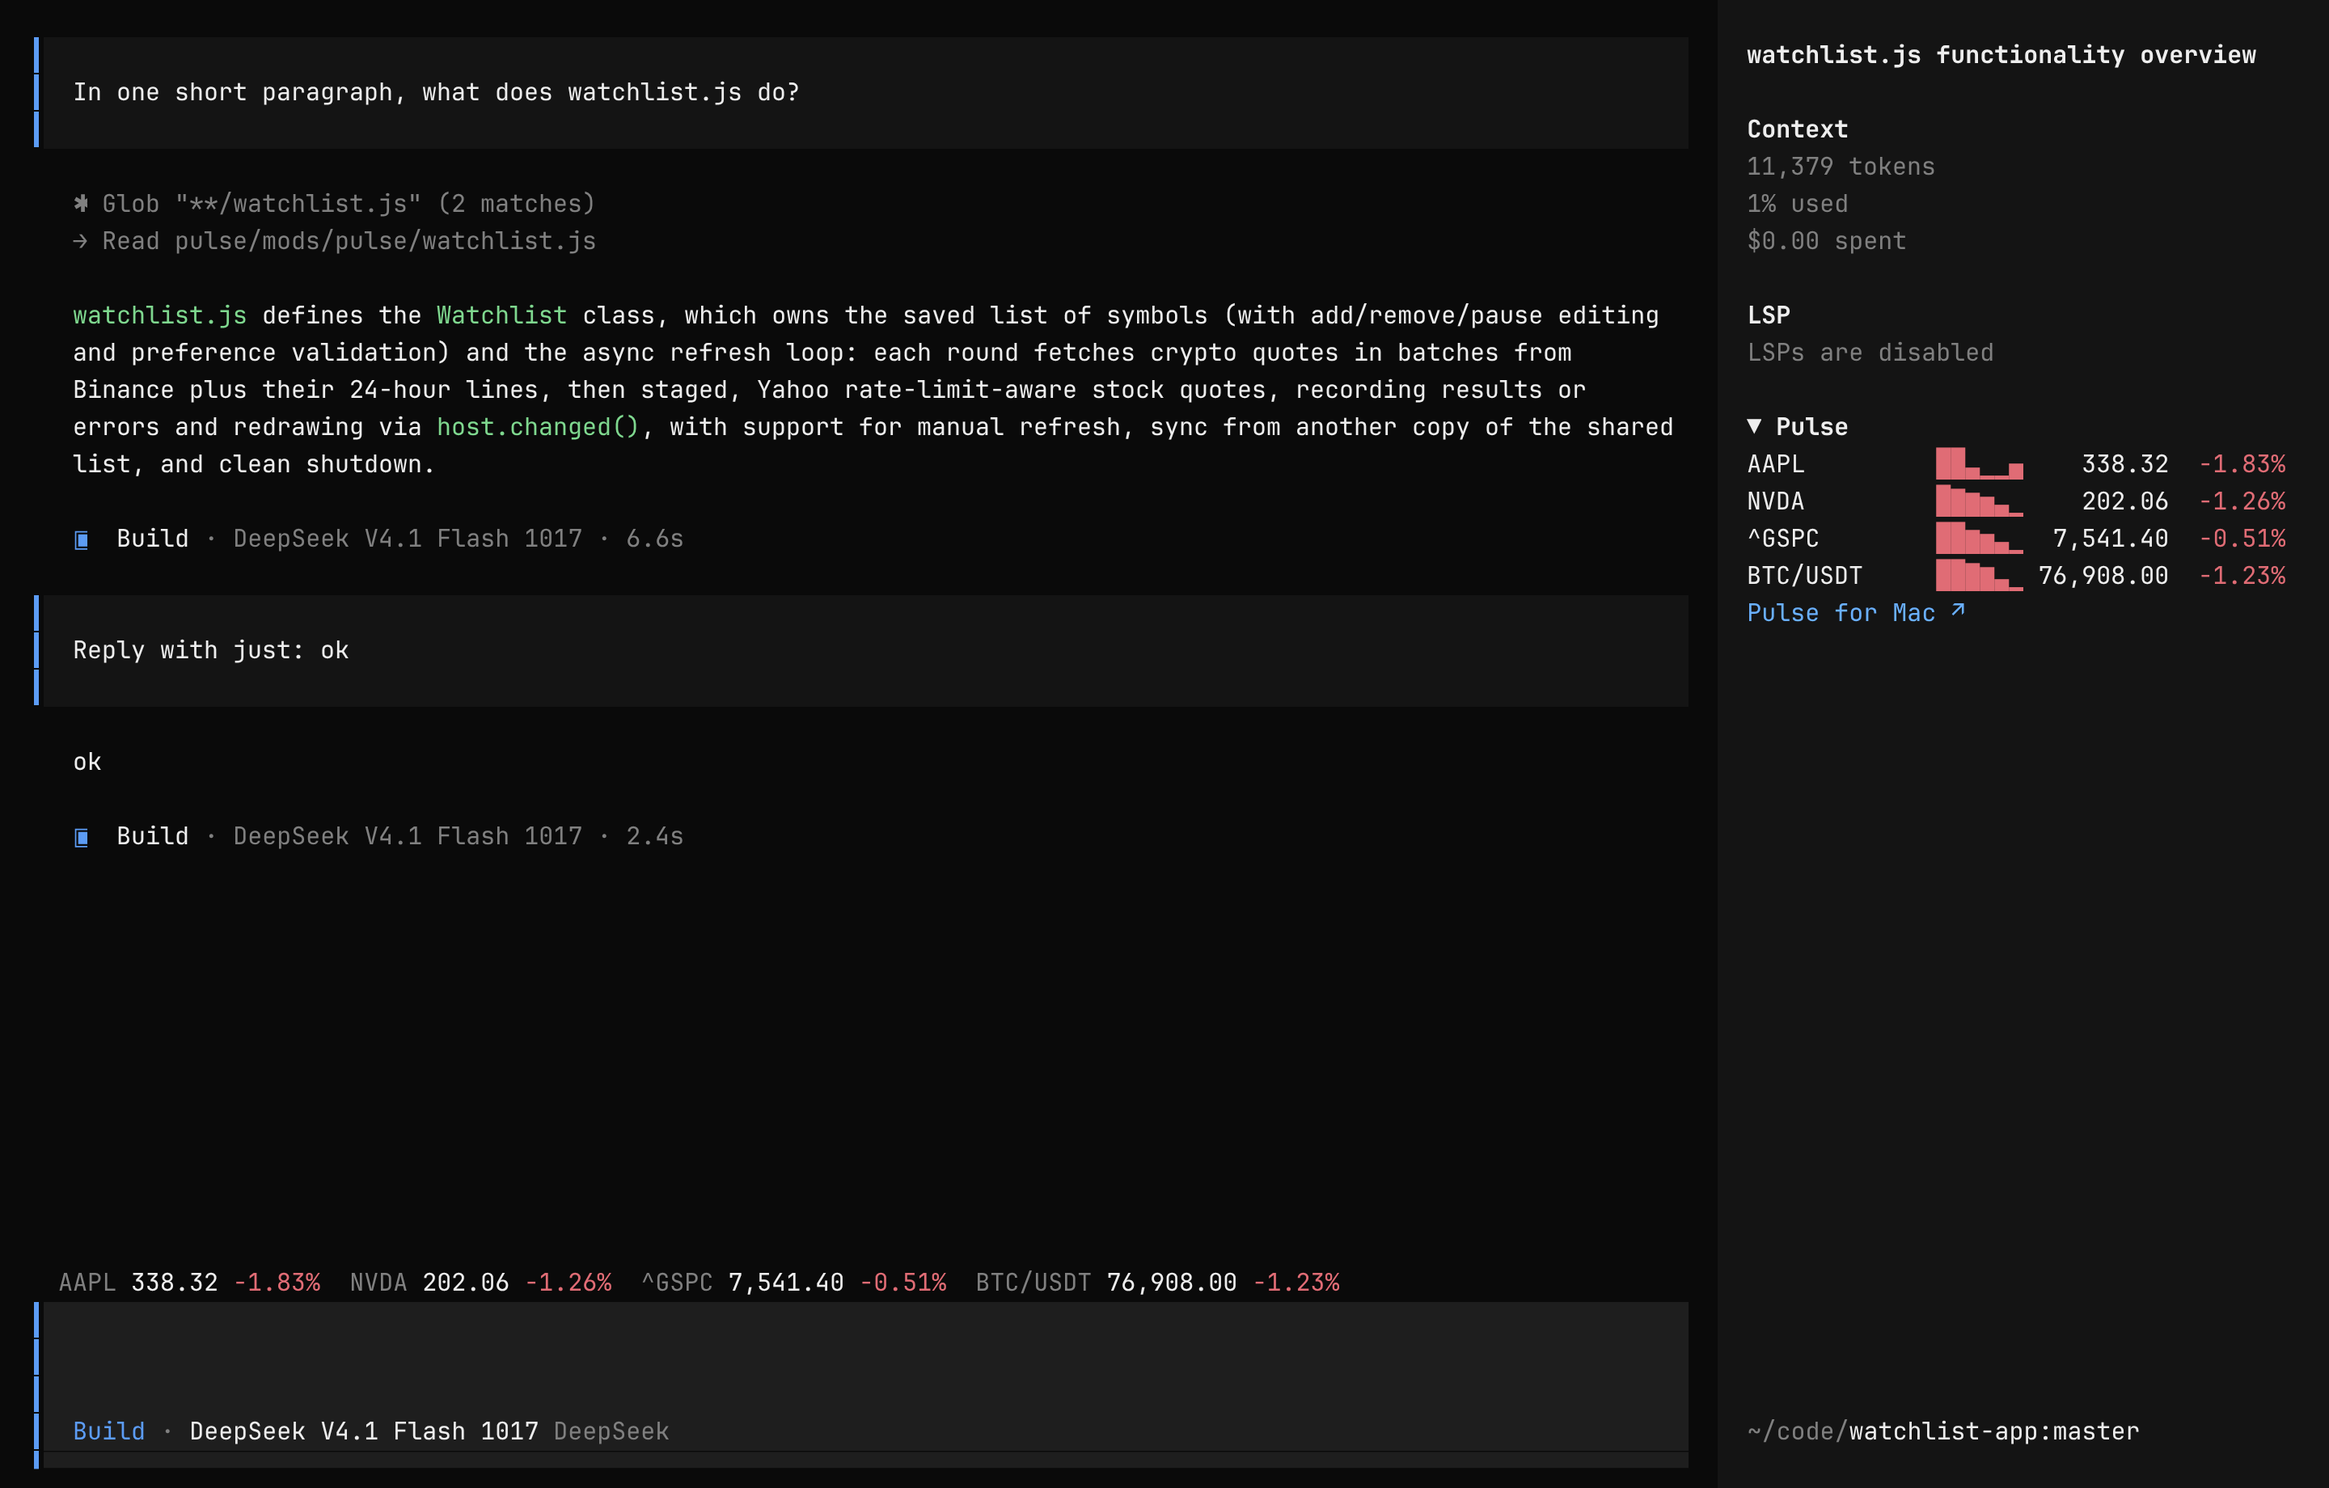
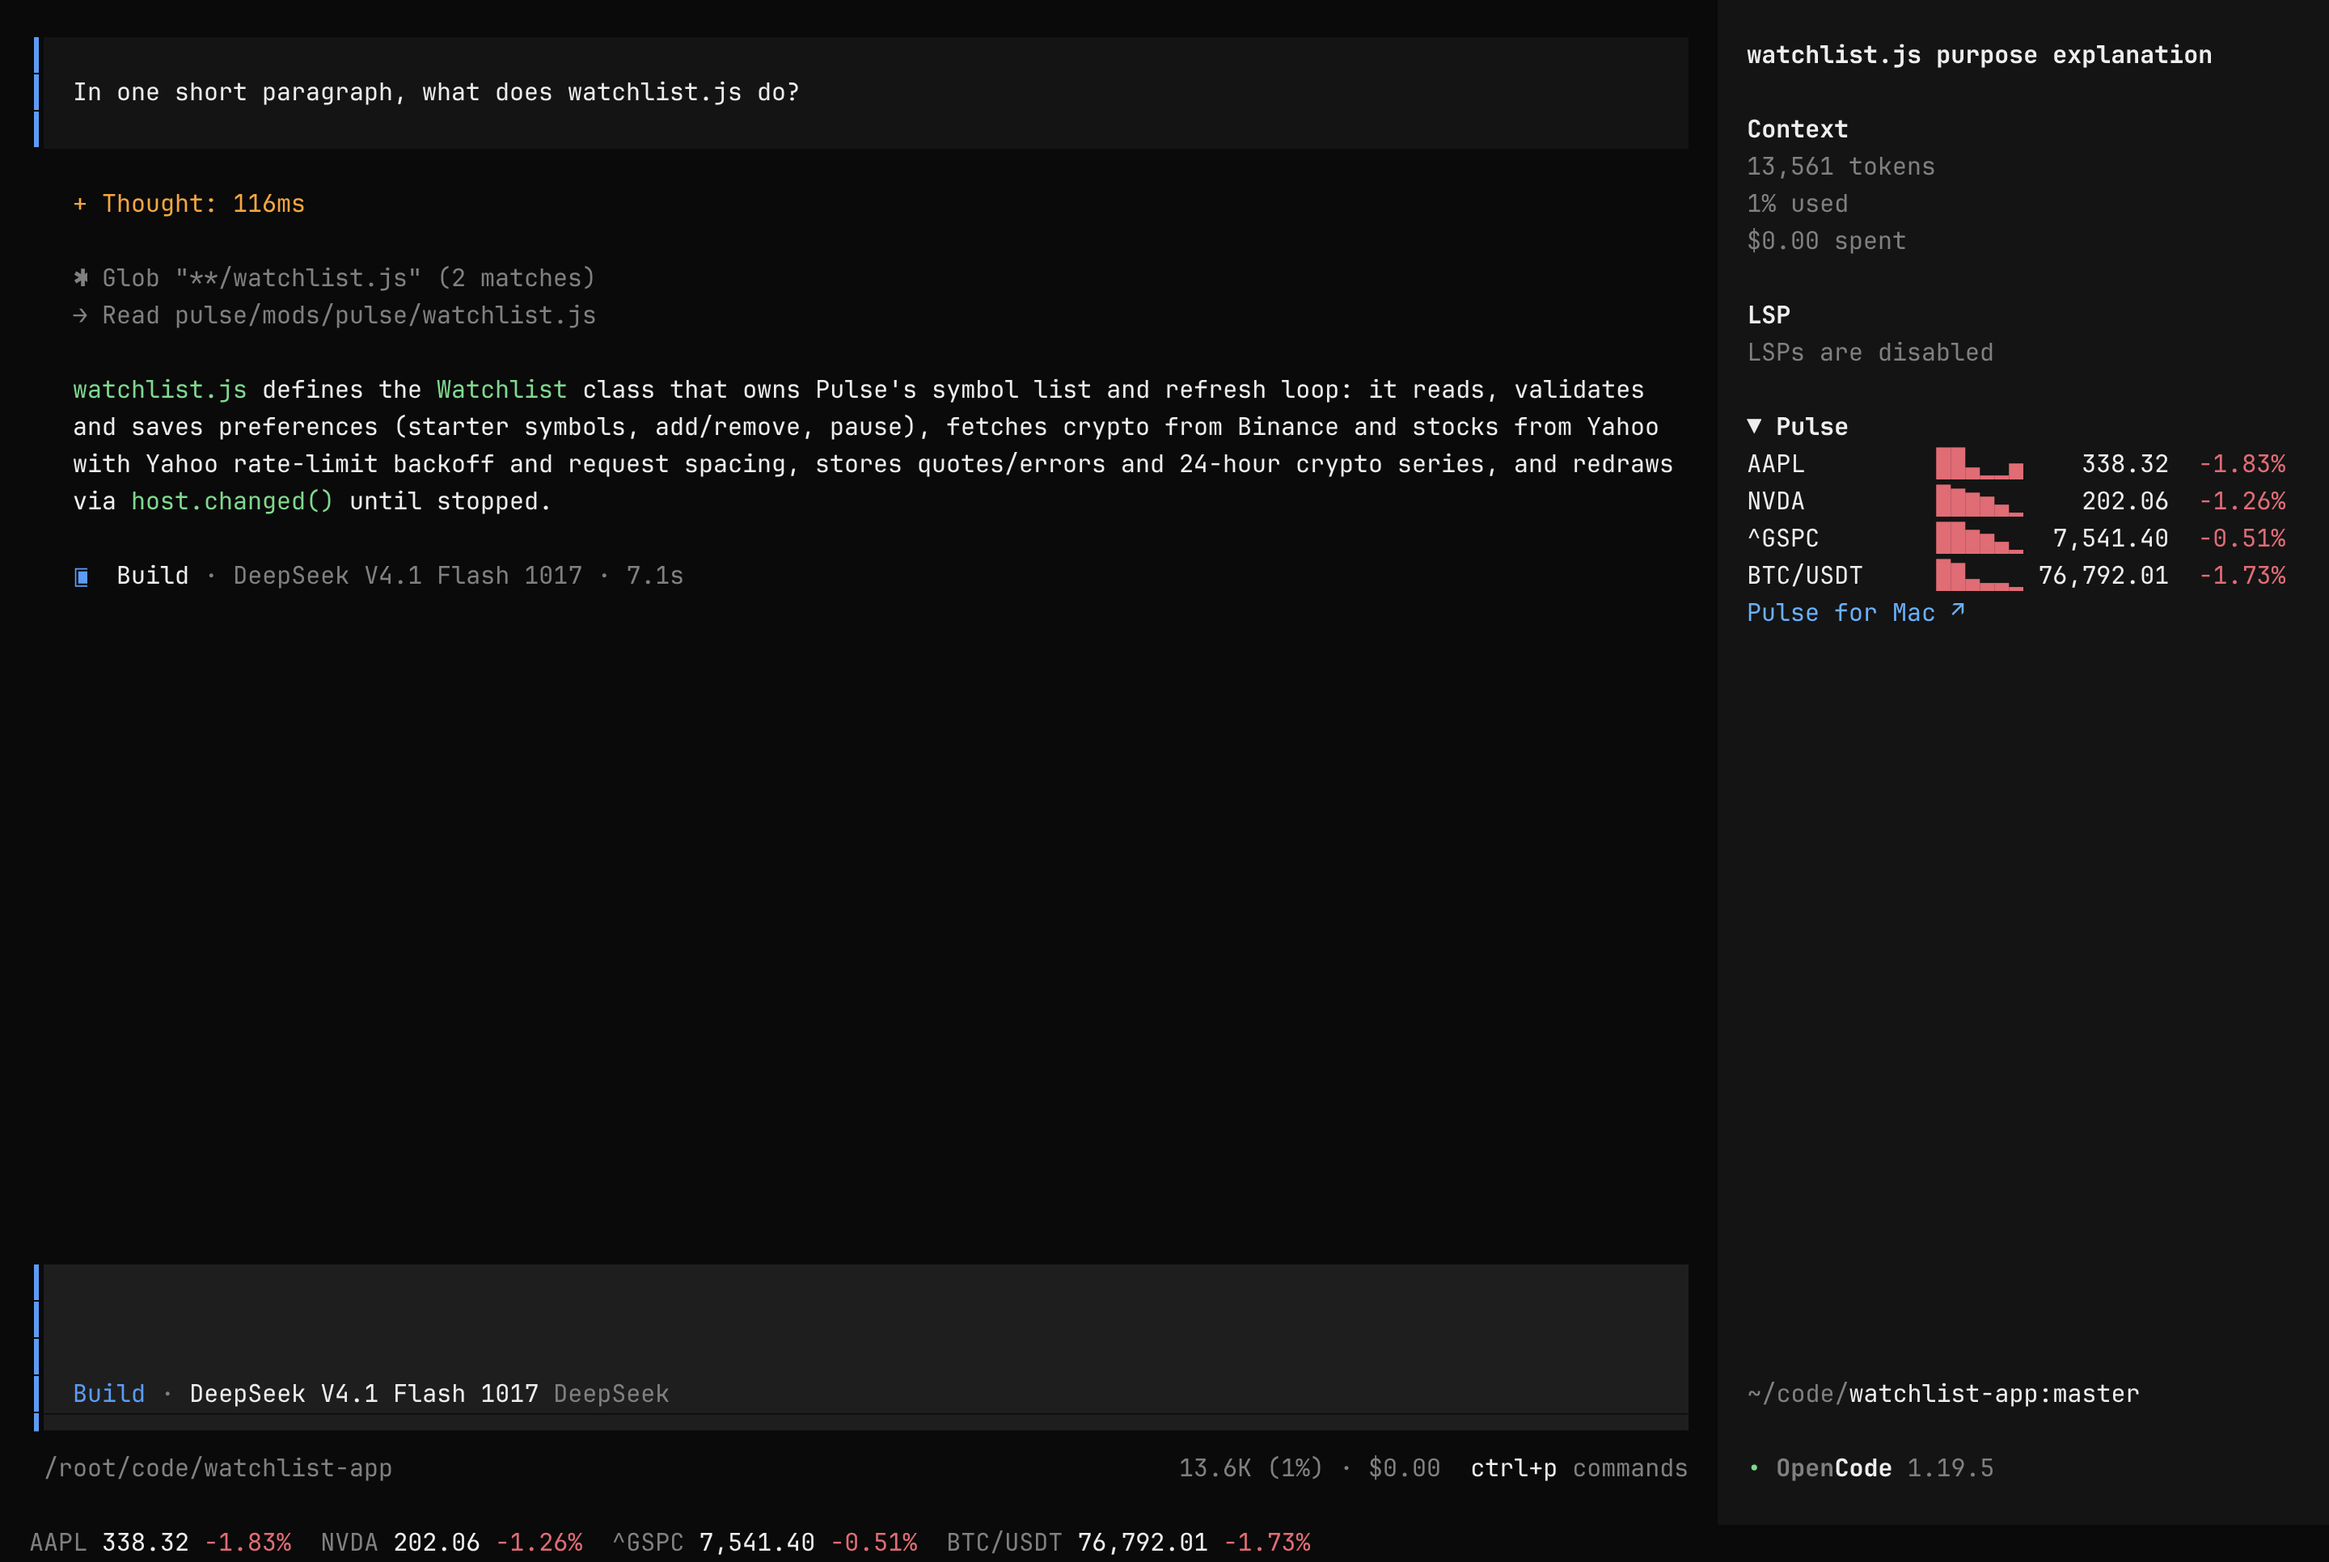
Keep the opencode quote band in opencode's own slots
Drop the above-the-prompt placement, which replaced opencode's prompt.
The band now defaults to the window's bottom line and can move right of
the model name or be turned off; the preview shows the default.

Claude-Session: https://claude.ai/code/session_01DuYf7wf62kLrVeZHzMtocm

diff --git a/opencode/src/tui.tsx b/opencode/src/tui.tsx
@@ -18,9 +18,8 @@ const OPEN = "pulse.sidebar.open"
 const PLACEMENT = "pulse.band.placement"
 // Where the one-line quote band goes; the sidebar panel is always there.
 const PLACEMENTS = {
-  above: "Above the prompt (on the home screen, below it)",
-  right: "Right of the model name in the prompt (first two)",
   bottom: "Bottom line of the window",
+  right: "Right of the model name in the prompt (first two)",
   off: "Off (sidebar only)",
 } as const
 type Placement = keyof typeof PLACEMENTS
@@ -284,11 +283,11 @@ const tui: TuiPlugin = async (api, options) => {
     ],
   } as Parameters<TuiPluginApi["keymap"]["registerLayer"]>[0])
 
-  // The person's pick (kept in kv) wins over the tui.json option; "above" by default.
+  // The person's pick (kept in kv) wins over the tui.json option; "bottom" by default.
   const [placement, setPlacement] = createSignal<Placement>(
     isPlacement(api.kv.get(PLACEMENT, undefined))
       ? api.kv.get<Placement>(PLACEMENT)
-      : isPlacement(options?.placement) ? (options.placement as Placement) : "above",
+      : isPlacement(options?.placement) ? (options.placement as Placement) : "bottom",
   )
   const showPlacement = () =>
     api.ui.dialog.replace(() => (
@@ -319,32 +318,6 @@ const tui: TuiPlugin = async (api, options) => {
     slots: {
       sidebar_content() {
         return <Panel api={api} watch={watch} tick={tick} />
-      },
-      // opencode has no slot above the prompt: in "above", this draws the band and
-      // opencode's own Prompt under it. Otherwise it draws nothing, so opencode keeps its prompt.
-      session_prompt(_ctx, props) {
-        // Nothing (not an empty Show) unless "above": opencode then draws its own prompt.
-        if (placement() !== "above") return null
-        return (
-          <box>
-            <box paddingLeft={2} flexDirection="row">{band()}</box>
-            <api.ui.Prompt
-              sessionID={props.session_id}
-              visible={props.visible}
-              disabled={props.disabled}
-              onSubmit={props.on_submit}
-              ref={props.ref}
-              right={<api.ui.Slot name="session_prompt_right" session_id={props.session_id} />}
-            />
-          </box>
-        )
-      },
-      home_bottom() {
-        return (
-          <Show when={placement() === "above"}>
-            <box flexDirection="row" justifyContent="center" paddingTop={1}>{band()}</box>
-          </Show>
-        )
       },
       session_prompt_right() {
         return <Show when={placement() === "right"}>{band(2)}</Show>

diff --git a/opencode/README.md b/opencode/README.md
@@ -2,8 +2,8 @@
 
 An [opencode](https://opencode.ai) plugin from the makers of
 [Pulse for Mac](https://www.pulseticker.app/?utm_source=opencode&utm_medium=readme): a stock and
-crypto watchlist in the session sidebar, and a one-line quote band above the
-prompt. Each ticker in the sidebar shows its price, today's line and its change; click one for its day: the open, high, low and previous
+crypto watchlist in the session sidebar, and a one-line quote band along the
+bottom of the window. Each ticker in the sidebar shows its price, today's line and its change; click one for its day: the open, high, low and previous
 close, and whether its market is open. Stocks and indices come from Yahoo
 Finance, crypto pairs (`BTC/USDT`) from Binance's public Spot data.
 
@@ -27,7 +27,7 @@ pass it as an option:
 
 ```json
 {
-  "plugin": [["opencode-pulse-ticker", { "symbols": ["AAPL", "0700.HK", "^GSPC", "BTC/USDT"], "placement": "above" }]]
+  "plugin": [["opencode-pulse-ticker", { "symbols": ["AAPL", "0700.HK", "^GSPC", "BTC/USDT"], "placement": "bottom" }]]
 }
 ```
 
@@ -35,14 +35,9 @@ pass it as an option:
 
 | `placement` | Where |
 | --- | --- |
-| `above` (default) | A line above the prompt in a session; on the home screen, below the prompt |
+| `bottom` (default) | The bottom line of the window, on every screen |
 | `right` | Right of the model name inside the prompt, first two tickers |
-| `bottom` | The bottom line of the window, on every screen |
 | `off` | No band; the sidebar only |
-
-opencode has no slot above the prompt, so `above` draws opencode's own prompt
-with the band on top of it. If another plugin also replaces the prompt, you may
-see two; pick another placement with `/pulse-band`.
 
 ## Use
 

diff --git a/opencode/AGENTS.md b/opencode/AGENTS.md
@@ -4,7 +4,7 @@
   `exports["./tui"]` = `src/tui.tsx`). opencode compiles the TSX with its own
   Solid runtime, so ship source, no build step and no runtime dependencies.
   Use only `@opencode-ai/plugin/tui` APIs that exist since opencode 1.15
-  (`slots`, `keymap.registerLayer`, `kv`, `lifecycle`, `ui`, including `ui.Prompt`), and test in a real
+  (`slots`, `keymap.registerLayer`, `kv`, `lifecycle`, `ui`), and test in a real
   opencode before release.
 - `src/quotes.js` and `src/watchlist.js` are copies of the Herdr mod's
   (`herdr/pulse/mods/pulse/`): only the header comment and `PULSE_URLS` differ,
@@ -17,7 +17,7 @@
   line, the README); name no other edition. Links carry `utm_source=opencode`.
 - Respect Yahoo cooldowns; never show cached data as fresh or unknown delay as
   real time. Crypto never waits on Yahoo.
-- The quote band shows quotes only, never a Pulse for Mac link. In
-  `session_prompt` (replace mode) return `null` unless the placement is
-  `above`, so opencode keeps its own prompt; an empty `<Show>` would hide it.
+- The quote band shows quotes only, never a Pulse for Mac link, and uses only
+  slots opencode adds content to (`app_bottom`, `*_prompt_right`). Never replace
+  opencode's own UI (`session_prompt`, `home_prompt`, `home_logo` etc.).
 - `preview.png` must be a screenshot of the real plugin running in opencode.

diff --git a/README.md b/README.md
@@ -70,8 +70,8 @@ provider limits, privacy, and local development.
 
 An [opencode](https://opencode.ai) plugin: a stock and crypto watchlist in the
 session sidebar, with today's line on every row and a detail view with the
-day's open, high, low and previous close, plus a one-line quote band above the
-prompt.
+day's open, high, low and previous close, plus a one-line quote band along the
+bottom of the window.
 
 <img src="opencode/preview.png" alt="Pulse in the opencode sidebar" width="720">
 
